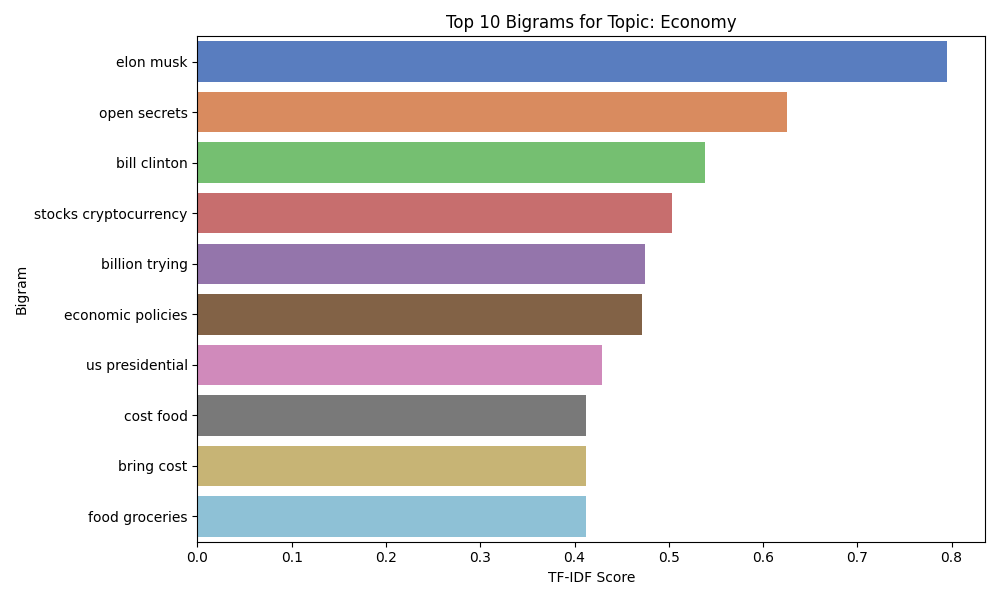
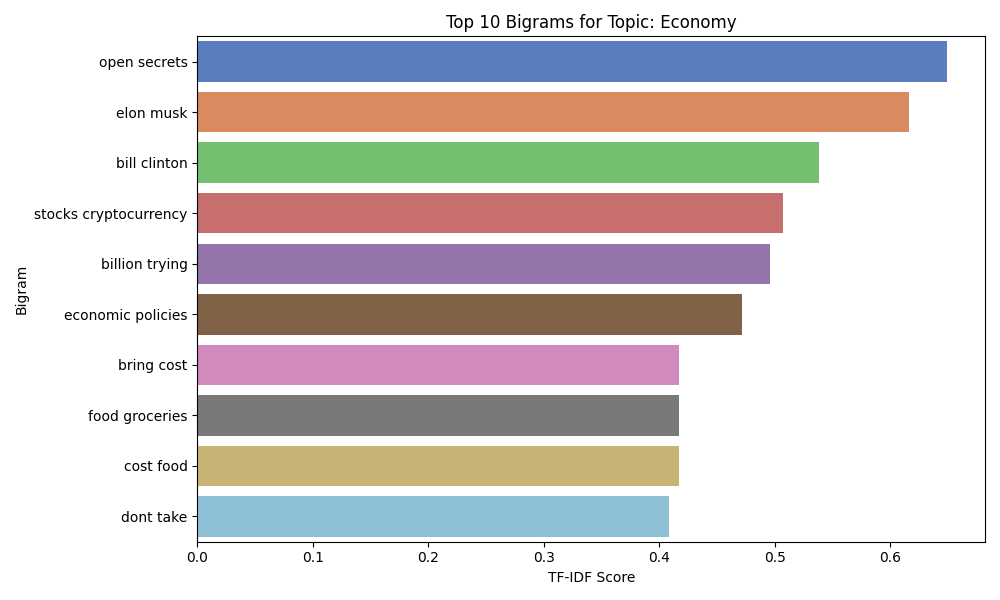
misc

diff --git a/tfidf/get_tfidf_uni_bi_tri_plots.py b/tfidf/get_tfidf_uni_bi_tri_plots.py
@@ -13,7 +13,6 @@ nltk.download('stopwords')
 from nltk.corpus import stopwords
 
 # Path to your data file
-# Adjust the path as needed
 datapath = os.path.join(os.path.dirname(__file__), '../flair_updated_annotated_articles_with_neutral.tsv')
 
 # Read the data
@@ -24,13 +23,12 @@ df['title'] = df['title'].fillna('')
 df['description'] = df['description'].fillna('')
 df['text'] = df['title'] + ' ' + df['description']
 
-# Define stopwords and add 'donald' and 'trump' to the list
+# Define stopwords
 stop_words = set(stopwords.words('english'))
 stop_words.update(['donald', 'trump', 'former', 'vice', 
-                        'president', 'election', 'vote', 'kamala', 'harris',
-                        'biden', 'american', 'great', 'new', 'president-elect'])  # Exclude more generic terms
+                   'president', 'election', 'vote', 'kamala', 'harris',
+                   'biden', 'american', 'great', 'new', 'president-elect'])  # Exclude more generic terms
 
-# Preprocess text function
 def preprocess_text(text):
     # Lowercase
     text = text.lower()
@@ -38,9 +36,8 @@ def preprocess_text(text):
     text = re.sub(r'[^\w\s]', '', text)
     # Tokenize text
     tokens = text.split()
-    # Remove stopwords and 'donald', 'trump'
+    # Remove stopwords
     tokens = [word for word in tokens if word not in stop_words]
-    # Join tokens back into a string
     return ' '.join(tokens)
 
 df['clean_text'] = df['text'].apply(preprocess_text)
@@ -59,65 +56,63 @@ os.makedirs(output_dir_bigrams, exist_ok=True)
 os.makedirs(output_dir_trigrams, exist_ok=True)
 os.makedirs(output_dir_exclusive_unigrams, exist_ok=True)
 
-# Loop through each topic
+# --- NEW CODE STARTS HERE ---
+# Fit vectorizers on the entire corpus
+all_texts = df['clean_text'].tolist()
+
+vectorizer_tri = TfidfVectorizer(ngram_range=(3,3))
+X_all_tri = vectorizer_tri.fit_transform(all_texts)
+terms_tri = vectorizer_tri.get_feature_names_out()
+
+vectorizer_bi = TfidfVectorizer(ngram_range=(2,2))
+X_all_bi = vectorizer_bi.fit_transform(all_texts)
+terms_bi = vectorizer_bi.get_feature_names_out()
+
+vectorizer_uni = TfidfVectorizer(ngram_range=(1,1))
+X_all_uni = vectorizer_uni.fit_transform(all_texts)
+terms_uni = vectorizer_uni.get_feature_names_out()
+# --- NEW CODE ENDS HERE ---
+
 for topic in topics:
-    # Subset data
     df_topic = df[df['topic'] == topic]
+    topic_indices = df_topic.index.tolist()
     
-    # Get the text data
-    texts = df_topic['clean_text'].tolist()
-    
-    # Remove empty strings
-    texts = [text for text in texts if text.strip()]
-    
-    # Check if there is data to process
-    if not texts:
+    # Subset the TF-IDF matrices for the rows corresponding to this topic
+    if len(topic_indices) == 0:
         print(f"No data available for topic: {topic}")
         continue
-    
-    # Clean topic name for filenames
-    safe_topic = re.sub(r'[^\w\s-]', '', str(topic)).strip().replace(' ', '_')
-    
-    # Compute TF-IDF scores for trigrams
-    vectorizer_tri = TfidfVectorizer(ngram_range=(3,3))
-    X_tri = vectorizer_tri.fit_transform(texts)
-    term_scores_tri = np.asarray(X_tri.sum(axis=0)).ravel()
-    terms_tri = vectorizer_tri.get_feature_names_out()
+
+    # Subset the topic rows from the global TF-IDF matrices
+    X_topic_tri = X_all_tri[topic_indices, :]
+    X_topic_bi = X_all_bi[topic_indices, :]
+    X_topic_uni = X_all_uni[topic_indices, :]
+
+    # Compute scores for trigrams (already have global IDF from all_texts)
+    term_scores_tri = np.asarray(X_topic_tri.sum(axis=0)).ravel()
     df_trigrams = pd.DataFrame({'term': terms_tri, 'score': term_scores_tri})
     df_trigrams = df_trigrams.sort_values(by='score', ascending=False).head(10)
     
-    # Compute TF-IDF scores for bigrams
-    vectorizer_bi = TfidfVectorizer(ngram_range=(2,2))
-    X_bi = vectorizer_bi.fit_transform(texts)
-    term_scores_bi = np.asarray(X_bi.sum(axis=0)).ravel()
-    terms_bi = vectorizer_bi.get_feature_names_out()
+    # Compute scores for bigrams
+    term_scores_bi = np.asarray(X_topic_bi.sum(axis=0)).ravel()
     df_bigrams = pd.DataFrame({'term': terms_bi, 'score': term_scores_bi})
     df_bigrams = df_bigrams.sort_values(by='score', ascending=False).head(10)
     
     # Collect words from top 10 bigrams and top 10 trigrams
     words_in_top_bi_tri = set()
-    # From bigrams
     for term in df_bigrams['term']:
         words_in_top_bi_tri.update(term.split())
-    # From trigrams
     for term in df_trigrams['term']:
         words_in_top_bi_tri.update(term.split())
     
-    # Exclude these words from the unigrams
-    # Compute TF-IDF scores for unigrams
-    vectorizer_uni = TfidfVectorizer(ngram_range=(1,1))
-    X_uni = vectorizer_uni.fit_transform(texts)
-    terms_uni = vectorizer_uni.get_feature_names_out()
-    term_scores_uni = np.asarray(X_uni.sum(axis=0)).ravel()
+    # Compute scores for unigrams
+    term_scores_uni = np.asarray(X_topic_uni.sum(axis=0)).ravel()
     df_unigrams = pd.DataFrame({'term': terms_uni, 'score': term_scores_uni})
-    # Exclude unigrams that are in words_in_top_bi_tri
     df_unigrams_excl = df_unigrams[~df_unigrams['term'].isin(words_in_top_bi_tri)]
     df_unigrams_excl = df_unigrams_excl.sort_values(by='score', ascending=False).head(10)
     
     # Also get the plain top 10 unigrams
     df_unigrams_top10 = df_unigrams.sort_values(by='score', ascending=False).head(10)
     
-    # Plot and save top 10 unigrams (plain)
     # Plot and save top 10 unigrams (plain)
     plt.figure(figsize=(10, 6))
     colors = sns.color_palette("muted", len(df_unigrams_top10))
@@ -126,7 +121,7 @@ for topic in topics:
     plt.xlabel("TF-IDF Score")
     plt.ylabel("Unigram")
     plt.tight_layout()
-    filename_uni = f"{output_dir_unigrams}/top_unigrams_{safe_topic}.png"
+    filename_uni = f"{output_dir_unigrams}/top_unigrams_{topic}.png"
     plt.savefig(filename_uni)
     plt.close()
     
@@ -138,7 +133,7 @@ for topic in topics:
     plt.xlabel("TF-IDF Score")
     plt.ylabel("Bigram")
     plt.tight_layout()
-    filename_bi = f"{output_dir_bigrams}/top_bigrams_{safe_topic}.png"
+    filename_bi = f"{output_dir_bigrams}/top_bigrams_{topic}.png"
     plt.savefig(filename_bi)
     plt.close()
     
@@ -150,7 +145,7 @@ for topic in topics:
     plt.xlabel("TF-IDF Score")
     plt.ylabel("Trigram")
     plt.tight_layout()
-    filename_tri = f"{output_dir_trigrams}/top_trigrams_{safe_topic}.png"
+    filename_tri = f"{output_dir_trigrams}/top_trigrams_{topic}.png"
     plt.savefig(filename_tri)
     plt.close()
     
@@ -162,7 +157,7 @@ for topic in topics:
     plt.xlabel("TF-IDF Score")
     plt.ylabel("Unigram")
     plt.tight_layout()
-    filename_uni_excl = f"{output_dir_exclusive_unigrams}/top_exclusive_unigrams_{safe_topic}.png"
+    filename_uni_excl = f"{output_dir_exclusive_unigrams}/top_exclusive_unigrams_{topic}.png"
     plt.savefig(filename_uni_excl)
     plt.close()
     
